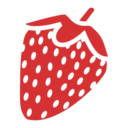
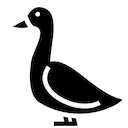
Updated branding

diff --git a/data/js/popup.js b/data/js/popup.js
@@ -1,6 +1,7 @@
 // test to see if extension loaded buttons successfully.  
 
-if (document.getElementById("google_images") != null) {
+if (document.getElementById("google_images") != null &&
+    document.getElementById("google_search") != null) {
     document.getElementById("status-indicator").src = "data/img/success.png";
 }
 else {

diff --git a/data/img/CREDIT.md b/data/img/CREDIT.md
@@ -1,3 +1,2 @@
-Strawberry icon by Delapouite under CC BY 3.0
-
-https://game-icons.net/delapouite/originals/strawberry.html
+Goose icon by Delapouite under CC BY 3.0
+https://game-icons.net/1x1/delapouite/goose.html
